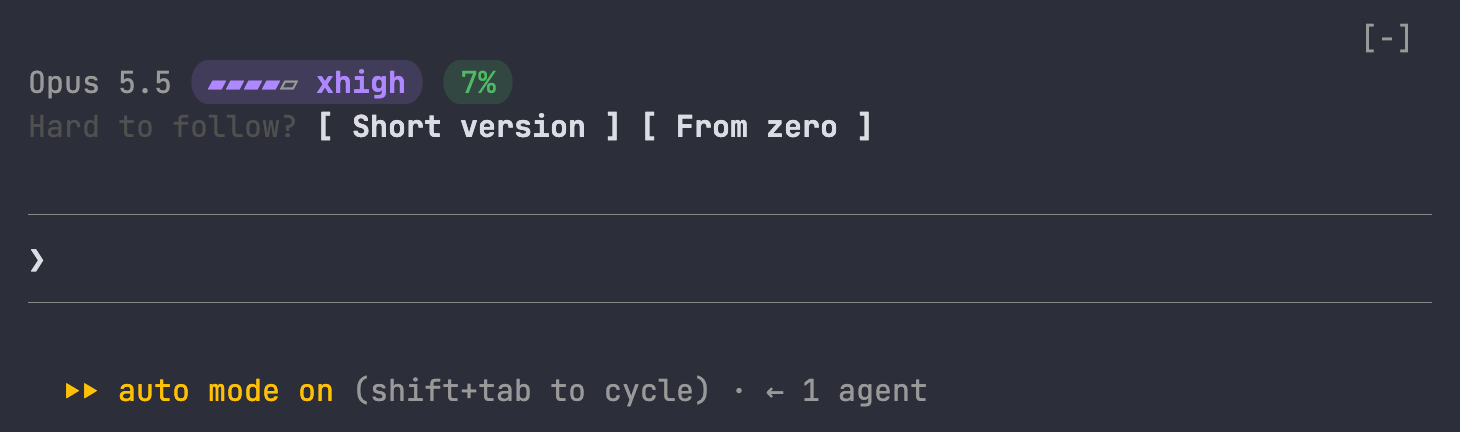
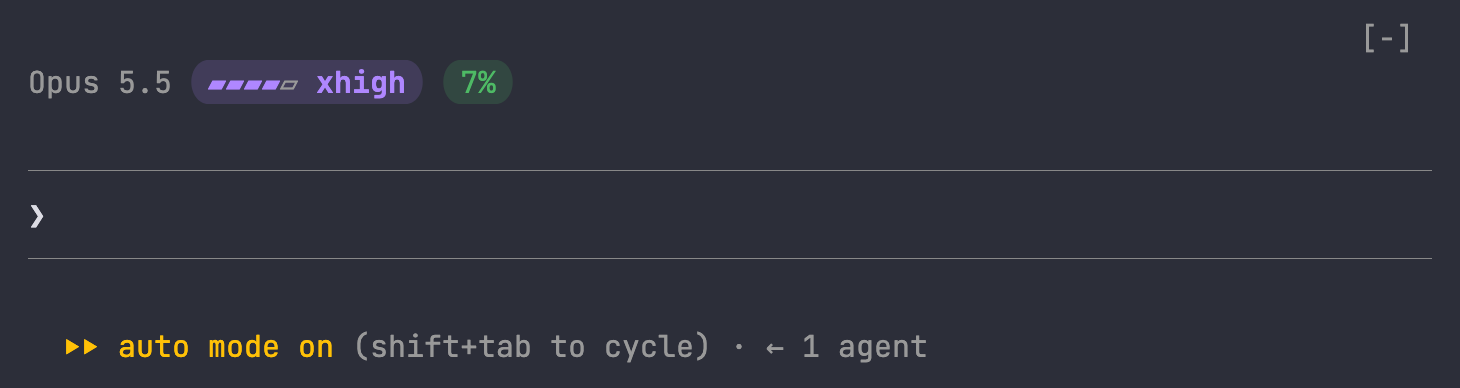
feat(reader): replace the "Hard to follow?" button with /short and /zero
The button showed up on its own after long replies and nobody knew where it
came from. The same two answers are now commands you run when you want them,
and both answer in the Reader pane.

diff --git a/reader/hooks/register.tsx b/reader/hooks/register.tsx
@@ -2,7 +2,7 @@ import { atom, read, update } from 'claude-code'
 import type { CommandSpec, EngineInterface, ModelEffort, Register } from 'claude-code'
 
 import { splitReply, termsIn } from './blocks'
-import { drawBlocks, LINE_COLOR } from './draw'
+import { drawBlocks } from './draw'
 import { modelRow, registerModel, startModel, stopModelFrames } from './model'
 import type { Term } from '../types'
 
@@ -14,15 +14,10 @@ const MAX_TERMS = 300
 const BULLET = '⏺'
 const BULLET_WIDTH = 2
 const FENCE = '```'
-// Past either, the band above the prompt offers a simpler version. From his chats:
-// replies before a "no entendí" had a median of 17 lines and 4 identifiers.
-const DENSE_LINES = 20
-const DENSE_IDENTIFIERS = 4
 
 // Change a tag when its value's fields change: it declines what an older version stored.
 const view = atom({ plugin: 'reader', key: 'view' } as const, 'explain')
 const isExplaining = atom({ plugin: 'reader', key: 'isExplaining' } as const, false)
-const isOffering = atom({ plugin: 'reader', key: 'isOffering' } as const, false)
 const explanation = atom({ plugin: 'reader', key: 'explanation' } as const, null, { shape: 'explanation-1' })
 const glossary = atom({ plugin: 'reader', key: 'glossary' } as const, [], { shape: 'glossary-1' })
 
@@ -70,6 +65,16 @@ const COMMANDS: CommandSpec[] = [
     name: 'terms',
     description: 'Show the glossary kept from every session in the Reader pane',
   },
+  {
+    name: 'short',
+    description: 'The last reply again in a few lines, in the Reader pane',
+    immediate: true,
+  },
+  {
+    name: 'zero',
+    description: 'The last reply explained from zero with an example, in the Reader pane',
+    immediate: true,
+  },
 ]
 
 export const register: Register = on => {
@@ -105,12 +110,6 @@ export const register: Register = on => {
     return { sections: [...composed.sections, { id: 'reader:formats', text: FORMATS, scope: 'session' }] }
   })
 
-  on('prompt.submit', async ($, e, next) => {
-    await update($, isOffering, () => false)
-
-    return next(e)
-  })
-
   on('turn.complete', async ($, e, next) => {
     const result = await next(e)
 
@@ -118,7 +117,6 @@ export const register: Register = on => {
       await stopModelFrames($)
     }
     if (e.agentId === undefined && e.reason === 'answer') {
-      await update($, isOffering, () => isDense(e.answer))
       await addTerms($, termsIn(e.answer))
     }
 
@@ -142,6 +140,18 @@ export const register: Register = on => {
     await askAside($, 'Recap of this session', RECAP_PROMPT, 'medium')
 
     return { text: 'Recap in the Reader pane.' }
+  })
+
+  on('command.run', { command: 'short' }, async $ => {
+    await askAside($, 'Short version of the last reply', SHORT_PROMPT, 'low')
+
+    return { text: 'Short version in the Reader pane.' }
+  })
+
+  on('command.run', { command: 'zero' }, async $ => {
+    await askAside($, 'The last reply, from zero', FROM_ZERO_PROMPT, 'medium')
+
+    return { text: 'From zero in the Reader pane.' }
   })
 
   on('command.run', { command: 'terms' }, async $ => {
@@ -171,46 +181,21 @@ export const register: Register = on => {
     )
   })
 
-  // Our row above the prompt: the model, effort and context on the left, "Hard to follow?" on the right when offered.
-  // Letter hotkeys only: a bare digit in an empty prompt would press a band button,
-  // and this user answers decisions by number.
+  // Our row above the prompt: the model, the effort and the context used.
   on('ui.render', { component: 'AbovePrompt' }, async ($, e, next) => {
     if (e.surface !== 'terminal' || e.props.hasSurvey) {
       return next(e)
     }
     const table = $.ui.resolve(e)
-    const { Box, Button, Text } = table
     const model = await modelRow($, table)
-    const isOffered = !e.props.isWorking && (await read($, isOffering))
 
-    if (model === null && !isOffered) {
+    if (model === null) {
       return next(e)
     }
+    const { Box } = table
 
-    return (
-      // marginTop: the engine leaves a blank row under the band but none above it, so the row hugged the reply.
-      // Narrower than both sides (about 76 columns), "Hard to follow?" wraps to a row of its own.
-      <Box flexDirection="row" flexWrap="wrap" justifyContent="space-between" columnGap={2} marginTop={1} width={e.props.bodyColumns}>
-        {model ?? <Text> </Text>}
-        {isOffered ? (
-          <Box flexDirection="row" gap={1} flexShrink={0}>
-            <Text color={LINE_COLOR}>Hard to follow?</Text>
-            <Button
-              key="short"
-              label="Short version"
-              hotkey="s"
-              onPress={() => void askAside($, 'Short version of the last reply', SHORT_PROMPT, 'low')}
-            />
-            <Button
-              key="zero"
-              label="From zero"
-              hotkey="z"
-              onPress={() => void askAside($, 'The last reply, from zero', FROM_ZERO_PROMPT, 'medium')}
-            />
-          </Box>
-        ) : null}
-      </Box>
-    )
+    // The engine leaves a blank row under the band but none above it, so the row hugged the reply.
+    return <Box marginTop={1}>{model}</Box>
   })
 
   on('ui.render', { component: 'Pane', requestId: PANE }, async ($, e) => {
@@ -316,13 +301,6 @@ function explainPrompt(subject: string, isSelection: boolean): string {
     subject,
     '</subject>',
   ].join('\n')
-}
-
-function isDense(answer: string): boolean {
-  const lines = answer.split('\n').length
-  const identifiers = answer.match(/`[^`\n]+`/g)?.length ?? 0
-
-  return lines > DENSE_LINES || identifiers >= DENSE_IDENTIFIERS
 }
 
 async function addTerms($: EngineInterface, added: Term[]): Promise<void> {

diff --git a/reader/types/index.d.ts b/reader/types/index.d.ts
@@ -13,7 +13,6 @@ declare module 'claude-code' {
     reader: {
       view: ReaderView
       isExplaining: boolean
-      isOffering: boolean
       explanation: Shaped<Explanation | null>
       glossary: Shaped<Term[]>
       model: Shaped<ModelInfo | null>

diff --git a/README.md b/README.md
@@ -117,7 +117,7 @@ A row right above the prompt, with a blank row over it so it does not touch the 
 - The effort of the last request in a round pill, in the colors of the `/effort` picker: five steps from `low` to `max`. While Claude works, `xhigh` shimmers and `max` cycles a rainbow, as in the picker.
 - The context used in a round pill: green under 30%, yellow from 30%, red from 60%. Answers get worse well before the window fills, so yellow means think about `/compact` or `/clear` and red means do it. It shows from the first request on, and clears after `/compact` or `/clear` until the next one.
 
-"Hard to follow?" shares the row, on the right, and moves to a row of its own in a terminal narrower than about 80 columns. Until the first request the effort is the one `/effort` saved in your settings. After `/model` or `/effort` the row updates with the next request. The round ends are the Nerd Font half circles `U+E0B6` and `U+E0B4`: xterm.js terminals draw them on their own, other terminals need a Nerd Font. The pill tints are mixed for a `#2c2e39` background.
+Until the first request the effort is the one `/effort` saved in your settings. After `/model` or `/effort` the row updates with the next request. The round ends are the Nerd Font half circles `U+E0B6` and `U+E0B4`: xterm.js terminals draw them on their own, other terminals need a Nerd Font. The pill tints are mixed for a `#2c2e39` background.
 
 **Without reader**
 
@@ -125,11 +125,7 @@ A row right above the prompt, with a blank row over it so it does not touch the 
 
 **With reader**
 
-![A row above the prompt: "Opus 5.5" in gray, a round purple pill with four of five steps and "xhigh", a round green "7%", and under it "Hard to follow?" with its two buttons](docs/reader-footer-after.png)
-
-### "Hard to follow?" band
-
-After a reply longer than 20 lines, or with 4 or more inline code names, "Hard to follow?" shows at the right of that row (in the image above). `s` asks for the short version, `z` for an explanation from zero with an example. Both answer in the Reader pane. The hotkeys are letters so a digit typed as an answer never presses a button.
+![A row above the prompt: "Opus 5.5" in gray, a round purple pill with four of five steps and "xhigh", a round green "7%", and the engine's [-] mark above the row](docs/reader-footer-after.png)
 
 ### Commands
 
@@ -138,8 +134,12 @@ After a reply longer than 20 lines, or with 4 or more inline code names, "Hard t
 | `/explain [question]` | Explains the question, or the text you selected in the chat, in a Reader pane next to the chat |
 | `/catchup` | Recaps the session from the start: goal, what is decided, open items numbered, a status block, what comes next |
 | `/terms` | Opens the glossary in the Reader pane |
+| `/short` | Says the last reply again in a few lines, in the Reader pane |
+| `/zero` | Explains the last reply from zero, with an example, in the Reader pane |
 
 The pane answers come from a fork of the model over the same transcript. The main chat never sees them.
+
+![A reply with a flow, bars, a status list and terms on the left; on the right the Reader pane with "Short version of the last reply" in five lines](docs/reader-short-after.png)
 
 ## Notes
 
